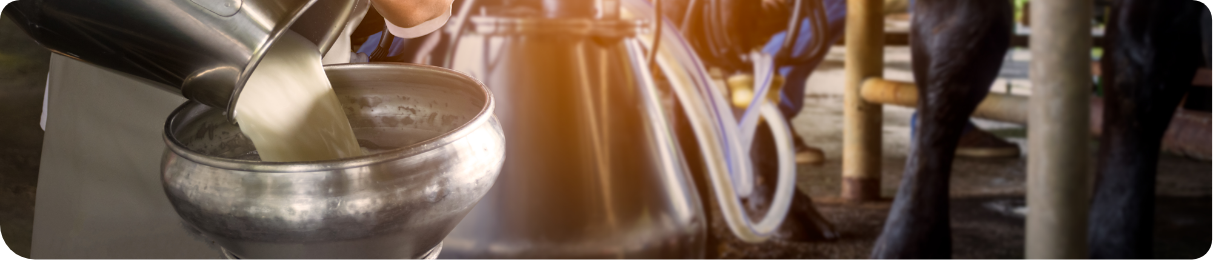
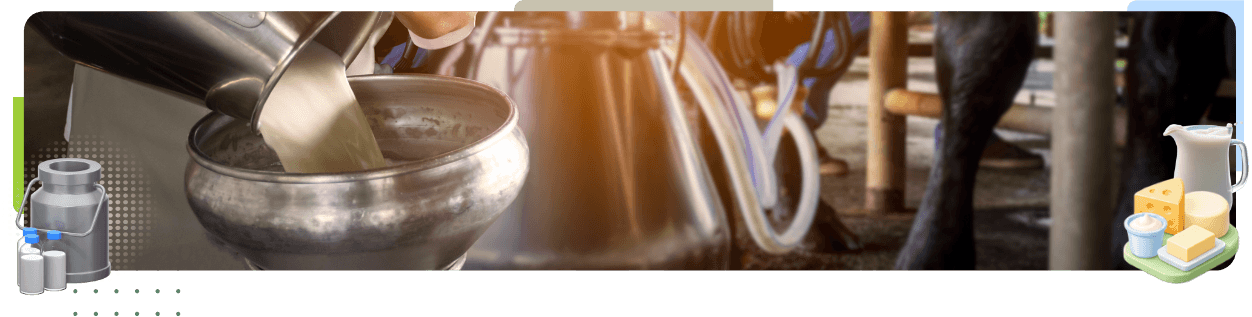
Tema 7

diff --git a/src/views/Tema7.vue b/src/views/Tema7.vue
@@ -1,0 +1,192 @@
+<template lang="pug">
+.curso-main-container.pb-3
+  BannerInterno
+  .container.tarjeta.tarjeta--blanca.p-4.p-md-5.mb-5
+    .titulo-principal.color-acento-contenido
+      .titulo-principal__numero
+        span 7
+      h1 Contaminación de la leche en cadena productiva
+
+    img(data-aos="fade-up", src="@/assets/curso/tema7/1.png", alt="")
+    .row.justify-content-center.z-2
+      .col-lg-10(data-aos="fade-down")
+        div.banner-text.shadow-sm.p-4.mb-5
+          p.mb-0 A lo largo de su recorrido, desde el ordeño hasta la llegada a la planta de procesamiento, la leche entra en contacto con animales, personas, equipos, recipientes, medios de transporte y diferentes condiciones ambientales. Cada uno de estos puntos debe ser controlado, porque una falla en la higiene, el almacenamiento o la manipulación puede afectar las condiciones iniciales de la materia prima y comprometer su posterior transformación. 
+
+    .bloque-texto-g.color-primario.p-3.p-sm-4.p-md-5.mb-5
+      .bloque-texto-g__img(
+        :style="{'background-image': `url(${require_src('@/assets/curso/tema7/2.png')})`}"
+      )
+      .bloque-texto-g__texto.p-4
+        p.mb-0 La contaminación de la leche en la cadena productiva se refiere a la presencia o incorporación de agentes no deseados que pueden modificar su calidad, inocuidad o aptitud para el procesamiento. Estos agentes pueden ingresar en cualquier etapa y se clasifican principalmente en biológicos, químicos y físicos, a continuación, se describe cada uno: 
+    
+    .row.justify-content-center.align-items-center.z-2
+      .col-lg-8.col-xl-7.mb-4.mb-lg-0
+        AcordionA(tipo="b" clase-tarjeta="tarjeta bg-contenido-a5")
+          .row(titulo="Biológica")
+            .col-lg-11
+              p.mb-0 Presencia de microorganismos capaces de multiplicarse o alterar la leche.
+              p.mb-0 #[strong Ejemplo:] bacterias incorporadas por una ubre sucia, equipos mal higienizados o almacenamiento inadecuado. 
+          .row(titulo="Química ")
+            .col-lg-11
+              p.mb-0 Presencia de residuos o sustancias químicas que no deberían encontrarse en la leche.
+              p.mb-0 #[strong Ejemplo:] residuos de antibióticos, detergentes, desinfectantes o productos utilizados durante la producción. 
+          .row(titulo="Física ")
+            .col-lg-11
+              p.mb-0 Incorporación accidental de materiales o partículas extrañas. 
+              p.mb-0 #[strong Ejemplo:] presencia de tierra, pelos, insectos o fragmentos procedentes del ambiente o de equipos deteriorados. 
+      .col-sm-8.col-lg-4.col-xl-3
+        figure
+          img(src="@/assets/curso/tema7/3.png", alt="")
+
+    separador
+    #t_7_1.titulo-segundo.color-acento-contenido(data-aos="flip-up")
+      h2 7.1 Producción primaria
+
+    .row.justify-content-center.align-items-center.mb-4.mb-lg-5.z-2
+      .col-lg-7
+        p La calidad de la leche comienza a construirse desde el lugar donde se obtiene. Las condiciones del animal, el estado de la ubre, la limpieza del sitio de ordeño, la higiene de las personas y el manejo de los equipos pueden influir directamente en la materia prima. Por esta razón, los primeros minutos después del ordeño son determinantes para conservar sus características y evitar que agentes contaminantes ingresen al producto. 
+        .bg-primario-p5.p-4.py-3.rounded-4.mb-4.mb-lg-0
+          p.mb-0 La producción primaria de leche comprende las actividades relacionadas con el cuidado del animal, el ordeño, la recolección, el filtrado, el enfriamiento y el almacenamiento inicial antes del transporte hacia un centro de acopio o una planta de procesamiento. En esta etapa pueden incorporarse contaminantes biológicos, químicos o físicos si no se aplican prácticas adecuadas de higiene y manejo.
+      .col-sm-8.col-lg-5
+        figure
+          img(data-aos="fade-down-right", src="@/assets/curso/tema7/4.png", alt="")
+    
+    .fullwidth-bg.fullwidth-bg--1
+    .row.justify-content-center.align-items-center.z-2.mb-5
+      .col-xl-10
+        .titulo-sexto.color-acento-contenido.mb-4
+          h5 Figura 6.
+          span Principales fuentes de contaminación en la producción primaria
+        img.mb-2.d-sm-none(data-aos="fade-up", src="@/assets/curso/tema7/5-mob.png", alt="La figura representa un entorno real de ordeño y muestra cómo diferentes condiciones presentes durante la producción primaria pueden influir en la calidad de la leche. A través de la escena se identifican posibles fuentes de contaminación relacionadas con el animal, el ambiente, las personas, los equipos, el agua, ciertas sustancias y el almacenamiento inicial. La figura permite comprender que la contaminación no depende de un solo factor, sino de la interacción entre varios elementos del proceso. En conjunto, destaca la importancia de mantener condiciones higiénicas, ordenadas y controladas para proteger la leche desde el momento en que se obtiene.")
+        img.mb-2.d-none.d-sm-block(data-aos="fade-up", src="@/assets/curso/tema7/5.png", alt="La figura representa un entorno real de ordeño y muestra cómo diferentes condiciones presentes durante la producción primaria pueden influir en la calidad de la leche. A través de la escena se identifican posibles fuentes de contaminación relacionadas con el animal, el ambiente, las personas, los equipos, el agua, ciertas sustancias y el almacenamiento inicial. La figura permite comprender que la contaminación no depende de un solo factor, sino de la interacción entre varios elementos del proceso. En conjunto, destaca la importancia de mantener condiciones higiénicas, ordenadas y controladas para proteger la leche desde el momento en que se obtiene.")
+
+    separador
+    #t_7_2.titulo-segundo.color-acento-contenido(data-aos="flip-up")
+      h2 7.2 Recepción de la materia prima en plantas de procesos
+
+    .row.justify-content-center.align-items-center.mb-4.mb-lg-5
+      .col-sm-8.col-lg-5
+        figure
+          img.mb-4.mb-lg-0(src="@/assets/curso/tema7/6.png", alt="" data-aos="zoom-in-down")
+      .col-lg-7
+        p La recepción de la leche es un punto decisivo dentro de la cadena productiva, porque constituye el momento en el que la materia prima pasa del transporte al proceso industrial. Antes de descargarla o utilizarla, es necesario comprobar que conserve las condiciones esperadas de calidad y que no presente señales que puedan afectar la elaboración de los derivados lácteos. 
+        .bg-primario-p5.p-4.py-3.rounded-4.mb-4.mb-lg-0
+          p.mb-0 La recepción de la materia prima es el conjunto de actividades de verificación, inspección y control realizadas cuando la leche llega a la planta. Su finalidad es determinar si puede ser aceptada para el procesamiento, teniendo en cuenta sus características sensoriales, temperatura, resultados analíticos y condiciones microbiológicas. El material formativo señala como riesgos relevantes una carga microbiana elevada, una refrigeración inadecuada y deficientes condiciones higiénicas del lugar de recepción. 
+
+
+    .fullwidth-bg.fullwidth-bg--1
+    TabsC.color-acento-botones.mb-5.z-2
+      .p-4(titulo="Llegada")
+        .row.justify-content-center.align-items-center
+          .col-2.col-lg-1
+            figure
+              img.imgh-92(src="@/assets/curso/tema7/7.svg", alt="")
+          .col-lg-5
+            p.mb-4.mb-lg-0 Ingreso del vehículo o cantina con la leche a la planta para iniciar el control de recepción.     
+          .col-sm-8.col-lg-4
+            figure
+              img(src="@/assets/curso/tema7/15.png", alt="")
+      
+      .p-4(titulo="Inspección higiénica")
+        .row.justify-content-center.align-items-center
+          .col-2.col-lg-1
+            figure
+              img.imgh-92(src="@/assets/curso/tema7/8.svg", alt="")
+          .col-lg-5
+            p.mb-4.mb-lg-0 Verificación del estado sanitario, limpieza y condiciones del equipo, recipientes y área de descarga.     
+          .col-sm-8.col-lg-4
+            figure
+              img(src="@/assets/curso/tema7/16.png", alt="")
+
+      .p-4(titulo="Temperatura")
+        .row.justify-content-center.align-items-center
+          .col-2.col-lg-1
+            figure
+              img.imgh-92(src="@/assets/curso/tema7/9.svg", alt="")
+          .col-lg-5
+            p.mb-4.mb-lg-0 Medición de la temperatura para confirmar que la leche se mantuvo bajo refrigeración adecuada.     
+          .col-sm-8.col-lg-4
+            figure
+              img(src="@/assets/curso/tema7/17.png", alt="")
+      .p-4(titulo="Evaluación sensorial")
+        .row.justify-content-center.align-items-center
+          .col-2.col-lg-1
+            figure
+              img.imgh-92(src="@/assets/curso/tema7/10.svg", alt="")
+          .col-lg-5
+            p.mb-4.mb-lg-0 Revisión de color, olor, aspecto y textura para identificar señales iniciales de alteración.     
+          .col-sm-8.col-lg-4
+            figure
+              img(src="@/assets/curso/tema7/18.png", alt="")
+      .p-4(titulo="Muestreo y pruebas")
+        .row.justify-content-center.align-items-center
+          .col-2.col-lg-1
+            figure
+              img.imgh-92(src="@/assets/curso/tema7/11.svg", alt="")
+          .col-lg-5
+            p.mb-4.mb-lg-0 Toma de muestra representativa para realizar análisis básicos de calidad de la materia prima.     
+          .col-sm-8.col-lg-4
+            figure
+              img(src="@/assets/curso/tema7/19.png", alt="")
+
+      .p-4(titulo="Revisión de resultados")
+        .row.justify-content-center.align-items-center
+          .col-2.col-lg-1
+            figure
+              img.imgh-92(src="@/assets/curso/tema7/12.svg", alt="")
+          .col-lg-5
+            p.mb-4.mb-lg-0 Análisis de registros y resultados obtenidos para comparar con los criterios de aceptación.     
+          .col-sm-8.col-lg-4
+            figure
+              img(src="@/assets/curso/tema7/20.png", alt="")
+      .p-4(titulo="Decisión")
+        .row.justify-content-center.align-items-center
+          .col-2.col-lg-1
+            figure
+              img.imgh-92(src="@/assets/curso/tema7/13.svg", alt="")
+          .col-lg-5
+            p.mb-4.mb-lg-0 Determinación de aprobación o rechazo del lote según el cumplimiento de las condiciones evaluadas.     
+          .col-sm-8.col-lg-4
+            figure
+              img(src="@/assets/curso/tema7/21.png", alt="")
+      .p-4(titulo="Descarga y almacenamiento")
+        .row.justify-content-center.align-items-center
+          .col-2.col-lg-1
+            figure
+              img.imgh-92(src="@/assets/curso/tema7/14.svg", alt="")
+          .col-lg-5
+            p.mb-4.mb-lg-0 Transferencia de la leche aceptada a un tanque refrigerado para su conservación previa al proceso.     
+          .col-sm-8.col-lg-4
+            figure
+              img(src="@/assets/curso/tema7/22.png", alt="")
+
+    .row.justify-content-center.z-2
+      .col-lg-10.col-xl-8
+        .bg-audio.rounded-4.p-4
+          .row.align-items-center.justify-content-center
+            .col-8.col-sm-5.d-none.d-sm-block
+              figure
+                img.imgw-190.mb-4.mb-sm-0(src="@/assets/curso/common/mic.png", alt="")
+            .col-sm-6.col-lg-6
+              p A continuación, lo invitamos a consultar el siguiente pódcast:
+              TarjetaAudio.mb-3(
+                texto="Leche bajo control: señales, microorganismos y puntos críticos"
+                tiempo
+                :audio="require_src('@/assets/curso/podcast/podcast1.mp3')"
+                @audio-hover="mostrarIndicadorTarjetaAudio = false")
+
+
+
+</template>
+
+<script>
+export default {
+  name: 'Tema7',
+  data: () => ({
+    // variables de vue
+  }),
+}
+</script>
+
+<style lang="sass"></style>

diff --git a/src/styles/_custom.sass b/src/styles/_custom.sass
@@ -62,10 +62,16 @@ figcaption, table caption
 /**************************************************************/
 /***CUSTOM STYLES***/
 /**************************************************************/
+.bg-secundario
+  background-color: $color-secundario
 .bg-secundario-s10
   background-color: $color-secundario-s10
 .bg-primario-p5
   background-color: $color-primario-p5
+.bg-contenido-a10
+  background-color: $color-acento-contenido-a10
+.bg-contenido-a5
+  background-color: $color-acento-contenido-a5
 
 .fullwidth-bg
   display: none
@@ -74,7 +80,7 @@ figcaption, table caption
   position: relative
   z-index: 0
   &--1::after
-    top: 0px
+    top: 50px
     left: -55px
     position: absolute
     content: url('../assets/curso/common/bg-1.png')
@@ -82,5 +88,49 @@ figcaption, table caption
 .z-2
   z-index: 2
   position: relative
+
+.banner-text
+  position: relative
+  border-radius: 10px
+  padding: 20px
+  margin-top: -30px
+  background-color: $color-secundario
+  @media screen and (min-width: $bp-min-md)
+    padding: 20px 30px
+    margin-top: -80px 
+
+.bg-audio
+  background: url('../assets/curso/common/bg-audio.png')
+  background-size: cover
+  background-position: center
+  background-repeat: no-repeat
+
+.tarjeta-audio
+  background-color: $white
+  &__texto
+    color: $color-sistema-texto !important
+
+  .tarjeta-audio__input input[type=range]
+    background-color: $color-acento-contenido !important
+
+  .audio__btn
+    background-color: $color-acento-botones !important
+
+  &__tiempo
+    color: $color-sistema-texto !important
   
- 
+.acordion
+  .acordion__activo
+    background-color: $color-acento-contenido-a10
+  .acordion__accion__btn--b
+    background-color: $color-acento-botones
+    border-color: $color-acento-botones
+
+.imgh-92
+  height: 92px
+  width: auto
+
+.tabs-c__content-item
+  background-color: $color-secundario-s10
+.tabs-c__header
+  margin-bottom: 0 !important

diff --git a/src/router/index.js b/src/router/index.js
@@ -57,6 +57,18 @@ const router = createRouter({
           component: () =>
             import(/* webpackChunkName: "tema5" */ '../views/Tema5.vue'),
         },
+        {
+          path: 'tema6',
+          name: 'tema6',
+          component: () =>
+            import(/* webpackChunkName: "tema6" */ '../views/Tema6.vue'),
+        },
+        {
+          path: 'tema7',
+          name: 'tema7',
+          component: () =>
+            import(/* webpackChunkName: "tema7" */ '../views/Tema7.vue'),
+        },
       ],
     },
     {

diff --git a/src/config/global.js b/src/config/global.js
@@ -71,6 +71,18 @@ export default {
         titulo: 'Tema 5',
         desarrolloContenidos: true,
       },
+      {
+        nombreRuta: 'tema6',
+        numero: '6',
+        titulo: 'Tema 6',
+        desarrolloContenidos: true,
+      },
+      {
+        nombreRuta: 'tema7',
+        numero: '7',
+        titulo: 'Tema 7',
+        desarrolloContenidos: true,
+      },
     ],
     subMenu: [
       {

diff --git a/src/views/Tema6.vue b/src/views/Tema6.vue
@@ -1,0 +1,21 @@
+<template lang="pug">
+.curso-main-container.pb-3
+  BannerInterno
+  .container.tarjeta.tarjeta--blanca.p-4.p-md-5.mb-5
+    .titulo-principal.color-acento-contenido
+      .titulo-principal__numero
+        span 6
+      h1 Tema 6
+
+</template>
+
+<script>
+export default {
+  name: 'Tema6',
+  data: () => ({
+    // variables de vue
+  }),
+}
+</script>
+
+<style lang="sass"></style>

diff --git a/src/styles/_variables.sass b/src/styles/_variables.sass
@@ -62,6 +62,8 @@ $color-secundario: #FBF3DB
 $color-secundario-s10: #FDFAF1
 $color-terciario: #784C36
 $color-acento-contenido: #FCB330
+$color-acento-contenido-a10: #FEE1AC
+$color-acento-contenido-a5: #FFF7EA
 $color-acento-botones: #5BADFF
 
 // Color Tipografias -----------------------------------

diff --git a/src/styles/componentes/_texto-destacado.sass b/src/styles/componentes/_texto-destacado.sass
@@ -261,7 +261,7 @@
       height: 250px
 
   &.color-primario
-    background-color: $color-primario
+    background: linear-gradient(270deg, rgba(216, 235, 174, 0.98) 0%, rgba(245, 250, 234, 1) 100%)
   &.color-secundario
     background-color: $color-secundario
   &.color-acento-contenido
